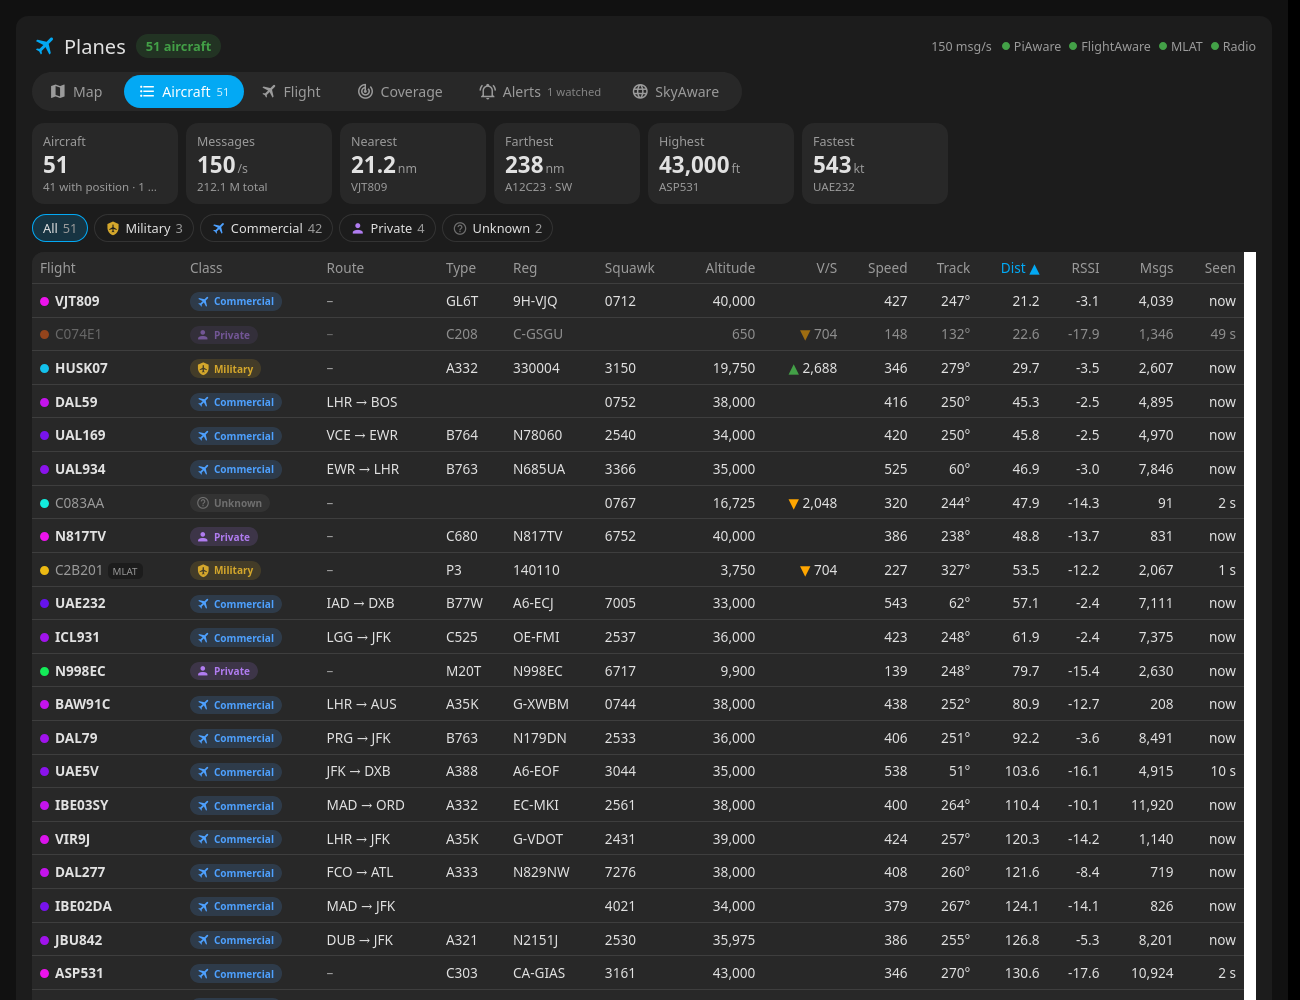
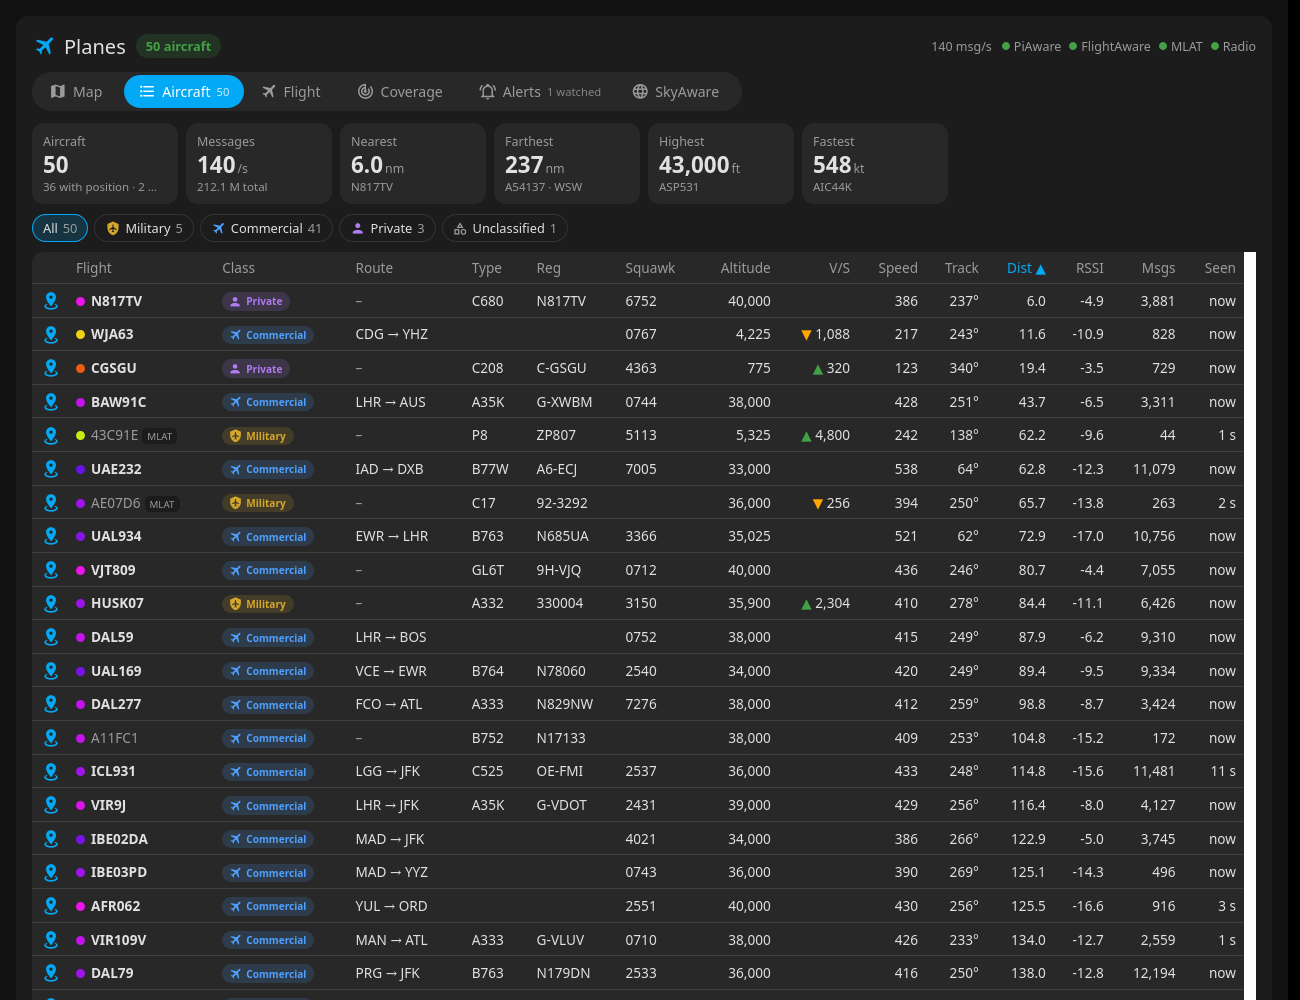
Emergency squawks must be confirmed (ADS-B emergency status, or held 60 s with 20+ messages); README: jump-to-aircraft screenshot
A corrupted Mode S reply decoded as 7500 for a Swiss A330 and sent a hijack alert.

diff --git a/dist/skyaware-card.js b/dist/skyaware-card.js
@@ -28,6 +28,7 @@ const TABS = [["map", "Map", "mdi:map"], ["list", "Aircraft", "mdi:format-list-b
 const BANDS = [["high", "Above 25,000 ft", 35000], ["mid", "10,000–25,000 ft", 15000], ["low", "Below 10,000 ft", 1500]];
 const RANGES = [["1", "Today"], ["7", "7 days"], ["30", "30 days"], ["all", "All time"]];
 const SQUAWKS = { "7500": "Hijack", "7600": "Radio failure", "7700": "Emergency" };
+const SQUAWK_EMERGENCY = { "7500": "unlawful", "7600": "nordo", "7700": "general" }; // matching ADS-B emergency status
 const CATEGORY = {
   A1: "Light (< 7 t)", A2: "Small (7–34 t)", A3: "Large (34–136 t)", A4: "High vortex (B757)", A5: "Heavy (> 136 t)",
   A6: "High performance", A7: "Rotorcraft", B1: "Glider", B2: "Balloon", B4: "Ultralight", B6: "Drone",
@@ -461,6 +462,14 @@ class SkyAwareCard extends HTMLElement {
       while (tr.length && tr[0].t < cutoff) tr.shift();
       if (!tr.length) STORE.trails.delete(hex);
     }
+    // Emergency squawks seen, for _emerg(): when each code was first seen and the message count then.
+    if (!this._sq) this._sq = new Map();
+    for (const ac of d.aircraft) {
+      const code = SQUAWKS[ac.squawk] ? ac.squawk : ac.emergency && ac.emergency !== "none" ? ac.emergency : null;
+      const q = this._sq.get(ac.hex);
+      if (!code) this._sq.delete(ac.hex);
+      else if (!q || q.code !== code) this._sq.set(ac.hex, { code, t: Date.now(), msgs: ac.messages || 0 });
+    }
     this._acs = d.aircraft;
     if (!this._kicked && this._config.lookups) {
       this._kicked = true;
@@ -589,6 +598,16 @@ class SkyAwareCard extends HTMLElement {
 
   _tag(c, short) {
     return `<span class="ctag" style="--c:${c.c}" title="${c.l}"><ha-icon icon="${c.i}"></ha-icon>${short ? "" : c.l}</span>`;
+  }
+
+  // Emergency squawk: {code, name, ok}. ok (confirmed) = the matching ADS-B emergency status, or the code held for
+  // 60 s while 20+ more messages arrived. A single corrupted Mode S reply often decodes as 7500 and dump1090 keeps it.
+  _emerg(a) {
+    const q = this._sq?.get(a.hex);
+    if (!q) return null;
+    const adsb = a.emergency && a.emergency !== "none" && (!SQUAWKS[q.code] || a.emergency === SQUAWK_EMERGENCY[q.code]);
+    const held = Date.now() - q.t >= 60000 && (a.messages || 0) - q.msgs >= 20 && a.seen < 10;
+    return { code: q.code, name: SQUAWKS[q.code] || q.code, ok: !!(adsb || held) };
   }
 
   _info(hex) {
@@ -1033,10 +1052,14 @@ class SkyAwareCard extends HTMLElement {
       st.textContent = `${acs.length} aircraft`;
       st.title = `${withPos} with positions`;
     }
-    const em = acs.filter((a) => SQUAWKS[a.squawk] || (a.emergency && a.emergency !== "none"));
+    const em = acs.map((a) => [a, this._emerg(a)]).filter(([, x]) => x);
     const e = this.$("emerg");
     e.hidden = !em.length;
-    if (em.length) e.textContent = em.map((a) => `${callsign(a) || a.hex} ${SQUAWKS[a.squawk] || a.emergency}`).join(" · ");
+    if (em.length) {
+      e.className = `pill ${em.some(([, x]) => x.ok) ? "bad" : "warn"}`;
+      e.textContent = em.map(([a, x]) => (x.ok ? `${callsign(a) || a.hex} ${x.name}` : `${callsign(a) || a.hex} ${x.code}?`)).join(" · ");
+      e.title = em.some(([, x]) => !x.ok) ? "? = not confirmed yet: no matching ADS-B emergency status, and not held for a minute (often a corrupted Mode S reply)" : "";
+    }
     const s = this._monStatus?.piaware;
     const dots = s && !this._monErr
       ? `<span class="dots">${[["piaware", "PiAware"], ["adept", "FlightAware"], ["mlat", "MLAT"], ["radio", "Radio"]]
@@ -1331,7 +1354,8 @@ class SkyAwareCard extends HTMLElement {
       if (isSel) g += `<circle class="selring" r="${17 * sc}"/>`;
       if (this._flash?.hex === a.hex && Date.now() < this._flash.until)
         g += `<circle r="18" fill="none" stroke="var(--primary-color)" stroke-width="3"><animate attributeName="r" values="14;46" dur="1.1s" repeatCount="indefinite"/><animate attributeName="opacity" values="1;0" dur="1.1s" repeatCount="indefinite"/></circle>`;
-      if (SQUAWKS[a.squawk]) g += `<circle r="${19 * sc}" fill="none" stroke="var(--sa-bad)" stroke-width="2.5"/>`;
+      const emg = this._emerg(a);
+      if (emg) g += `<circle r="${19 * sc}" fill="none" stroke="var(${emg.ok ? "--sa-bad" : "--sa-warn"})" stroke-width="2.5"${emg.ok ? "" : ` stroke-dasharray="4 3"`}/>`;
       g += `<path d="${SHAPES[shape]}" transform="rotate(${rot.toFixed(0)}) scale(${(sc * (isSel ? 1.25 : 1)).toFixed(2)})" fill="${altColor(a.alt_baro, isSel)}" stroke="${mlat ? "#4040ff" : this._dark ? "#000" : "#222"}"/>`;
       if (this._labels || isSel) {
         const cs = callsign(a) || a.hex.toUpperCase();
@@ -1421,7 +1445,7 @@ class SkyAwareCard extends HTMLElement {
         <div><span>V/S</span><b>${vr ? `${vr > 0 ? "▲" : "▼"} ${num(Math.abs(vr))}` : "level"}</b></div>
         <div><span>Distance</span><b>${num(a._dist, 1)} nm</b></div>
         <div><span>Bearing</span><b>${a._brg !== undefined ? `${num(a._brg)}° ${compass(a._brg)}` : "–"}</b></div>
-        <div><span>Squawk</span><b class="${SQUAWKS[a.squawk] ? "bad" : ""}">${esc(a.squawk || "–")}</b></div>
+        <div><span>Squawk</span><b class="${this._emerg(a) ? (this._emerg(a).ok ? "bad" : "warn") : ""}">${esc(a.squawk || "–")}${this._emerg(a) && !this._emerg(a).ok ? "?" : ""}</b></div>
       </div>
       <div class="acts"><button class="btn pri" data-act="details"><ha-icon icon="mdi:information-outline"></ha-icon>Flight details</button>
         <button class="btn ${this._follow ? "on" : ""}" data-act="follow"><ha-icon icon="mdi:crosshairs"></ha-icon>${this._follow ? "Following" : "Follow"}</button>
@@ -1490,7 +1514,7 @@ class SkyAwareCard extends HTMLElement {
     this.$("lbody").innerHTML = rows.map((a) => {
       const info = this._info(a.hex), rt = this._route(a);
       const vr = vrate(a);
-      const em = SQUAWKS[a.squawk];
+      const emg = this._emerg(a), em = emg?.ok ? emg.name : "";
       const cls = [a.hex === this._sel ? "sel" : "", a.seen > 30 ? "stale" : "", em ? "emerg" : ""].join(" ");
       return `<tr data-hex="${esc(a.hex)}" class="${cls}">
         <td class="pin">${a.lat !== undefined ? `<button data-act="locate" data-hex="${esc(a.hex)}" title="Show on the map"><ha-icon icon="mdi:map-marker-radius"></ha-icon></button>` : ""}</td>
@@ -1499,7 +1523,7 @@ class SkyAwareCard extends HTMLElement {
         <td>${rt ? `${esc(rt.o.iata || rt.o.icao)} → ${esc(rt.d.iata || rt.d.icao)}` : `<span class="muted">–</span>`}</td>
         <td>${esc(info?.icao || this._classes?.[a.hex]?.type || "")}</td>
         <td>${esc(info?.reg || this._classes?.[a.hex]?.reg || "")}</td>
-        <td class="${em ? "bad" : ""}">${esc(a.squawk || "")}${em ? ` ${em}` : ""}</td>
+        <td class="${em ? "bad" : emg ? "warn" : ""}">${esc(a.squawk || "")}${em ? ` ${em}` : emg ? "?" : ""}</td>
         <td class="r">${a.alt_baro === "ground" ? "GND" : num(a.alt_baro)}</td>
         <td class="r">${vr ? `<span class="${vr > 0 ? "good" : "warn"}">${vr > 0 ? "▲" : "▼"}</span> ${num(Math.abs(vr))}` : ""}</td>
         <td class="r">${a.gs ? num(a.gs) : ""}</td>
@@ -1531,7 +1555,7 @@ class SkyAwareCard extends HTMLElement {
     const photo = STORE.photos.get(a.hex);
     const vr = vrate(a);
     const lostFor = live ? 0 : Math.max(0, (this._now || 0) - (this._selSeenAt || 0));
-    const sqName = SQUAWKS[a.squawk];
+    const emg = this._emerg(a), sqName = emg?.ok ? emg.name : "";
 
     // Phase of flight.
     let phase = "";
@@ -1552,7 +1576,7 @@ class SkyAwareCard extends HTMLElement {
         : `<div class="photo" style="display:flex;align-items:center;justify-content:center;color:var(--secondary-text-color)"><ha-icon icon="mdi:airplane" style="--mdc-icon-size:48px;opacity:.4"></ha-icon></div>`}</div>
       <div class="fid">
         <div class="cs">${esc(cs || a.hex.toUpperCase())}${iataFlight && iataFlight !== cs ? `<span class="pill dim">${esc(iataFlight)}</span>` : ""}${this._tag(this._class(a))}
-          ${phase ? `<span class="pill ok">${phase}</span>` : ""}${!live ? `<span class="pill warn">Signal lost</span>` : ""}${sqName ? `<span class="pill bad">${sqName} · ${a.squawk}</span>` : ""}</div>
+          ${phase ? `<span class="pill ok">${phase}</span>` : ""}${!live ? `<span class="pill warn">Signal lost</span>` : ""}${sqName ? `<span class="pill bad">${sqName} · ${a.squawk}</span>` : emg ? `<span class="pill warn" title="Not confirmed yet: often a corrupted Mode S reply">${esc(emg.code)} unconfirmed</span>` : ""}</div>
         <div class="al">${logo ? `<img src="https://www.flightaware.com/images/airline_logos/90p/${esc(logo)}.png" alt="" onerror="this.remove()">` : ""}${esc(airlineName || info?.owner || (cs ? "" : "No callsign"))}</div>
         <div class="ty">${[info?.mfr && info?.type ? `${info.mfr} ${info.type}` : info?.type, info?.icao && `(${info.icao})`].filter(Boolean).map(esc).join(" ")}
           ${info?.reg ? ` · <b>${esc(info.reg)}</b>` : ""}${info?.owner && airlineName && info.owner !== airlineName ? ` · ${esc(info.owner)}` : ""}</div>

diff --git a/server.js b/server.js
@@ -40,6 +40,8 @@ const RAD = Math.PI / 180;
 const BUCKETS = 72; // 5° each
 const BANDS = [['low', -1e9, 10000], ['mid', 10000, 25000], ['high', 25000, 1e9]];
 const SQUAWKS = { '7500': 'Hijack', '7600': 'Radio failure', '7700': 'Emergency' };
+// ADS-B emergency status that goes with each squawk (dump1090-fa's `emergency` field).
+const SQUAWK_EMERGENCY = { '7500': 'unlawful', '7600': 'nordo', '7700': 'general' };
 // Military ICAO address blocks (as in readsb) and callsign prefixes, on top of the database's military flag.
 const MIL_RANGES = [[0xadf7c8, 0xafffff], [0xc20000, 0xc3ffff], [0x43c000, 0x43cfff], [0x3aa000, 0x3affff], [0x3b7000, 0x3bffff], [0x3ea000, 0x3ebfff], [0x3f4000, 0x3fbfff]];
 const MIL_CALLSIGN = /^(CFC|RCH|CNV|RRR|ASY|NATO|PAT|SAM|SPAR|GAF|CTM|BAF|IAM|HKY|KIWI|TUAF|VENUS|NAVY|ARMY|EVAC|REACH|TOPCT)\d/;
@@ -327,7 +329,7 @@ function saveCoverage() {
 
 let alerts = readJson(ALERTS_FILE, []); // newest last, last 200
 const watchState = new Map(); // callsign -> {approach, last:{t, alt, d}}
-const squawkSeen = new Map(); // hex -> {code, n}
+const squawkSeen = new Map(); // hex -> {code, t, msgs} when the code was first seen
 
 function recentlyAlerted(kind, hex, hours) {
   const since = Date.now() - hours * 3600_000;
@@ -412,13 +414,16 @@ async function checkAlerts(d) {
     const pos = a.lat !== undefined && a.seen_pos < 30 && rx;
     const dd = pos ? dist(rx.lat, rx.lon, a.lat, a.lon) : null;
 
-    // Emergency squawks: seen on two polls in a row (a garbled squawk is usually one-off).
+    // Emergency squawks. dump1090 keeps the last squawk it decoded, so a single corrupted Mode S reply can sit there
+    // as "7500" for minutes. Confirmed means: the matching ADS-B emergency status, or the same code held for 60 s
+    // while 20+ more messages arrived (a real squawk keeps being repeated; a glitch gets overwritten).
     const code = SQUAWKS[a.squawk] ? a.squawk : a.emergency && a.emergency !== 'none' ? a.emergency : null;
     if (code) {
-      const q = squawkSeen.get(a.hex);
-      const n = q && q.code === code ? q.n + 1 : 1;
-      squawkSeen.set(a.hex, { code, n });
-      if (s.squawk && n === 2 && !recentlyAlerted('squawk', a.hex, 2)) {
+      let q = squawkSeen.get(a.hex);
+      if (!q || q.code !== code) squawkSeen.set(a.hex, (q = { code, t: Date.now(), msgs: a.messages || 0 }));
+      const adsb = a.emergency && a.emergency !== 'none' && (!SQUAWKS[code] || a.emergency === SQUAWK_EMERGENCY[code]);
+      const held = Date.now() - q.t >= 60_000 && (a.messages || 0) - q.msgs >= 20 && a.seen < 10;
+      if (s.squawk && (adsb || held) && !recentlyAlerted('squawk', a.hex, 2)) {
         const cs = callsign(a);
         const [info, route, image] = await Promise.all([describe(a), routeOf(a), photoOf(a.hex)]);
         const what = SQUAWKS[a.squawk] ? `Squawk ${a.squawk} · ${SQUAWKS[a.squawk]}` : `Emergency: ${code}`;

diff --git a/README.md b/README.md
@@ -20,9 +20,13 @@ Two pieces that work together:
 
 ![Map tab: live aircraft with range rings, altitude-coloured trails and a selected flight](docs/map.png)
 
-| Map filter | Flight status | Light theme |
-|---|---|---|
-| ![Map filter: chosen classes and airlines only, with counts and logos](docs/map-filter.png) | ![Flight tab: route, progress, estimated arrival and live data](docs/flight.png) | ![Map tab in Home Assistant's light theme](docs/map-light.png) |
+| Map filter | Jump to aircraft (from the list's 📍) |
+|---|---|
+| ![Map filter: chosen classes and airlines only, with counts and logos](docs/map-filter.png) | ![The map centred and zoomed on an aircraft picked from the Aircraft list](docs/locate.png) |
+
+| Flight status | Light theme |
+|---|---|
+| ![Flight tab: route, progress, estimated arrival and live data](docs/flight.png) | ![Map tab in Home Assistant's light theme](docs/map-light.png) |
 
 | Coverage | Aircraft | Alerts |
 |---|---|---|
@@ -56,12 +60,15 @@ Two pieces that work together:
   today / 7 days / 30 days / all time, with records and per-day charts.
 - **Alerts**: everything below, as switches, plus a test button and the alert log.
 - **SkyAware**: your original SkyAware page, embedded.
-- Emergency squawks (7500 / 7600 / 7700) show as a red pill in the header and a red ring on the map.
+- Emergency squawks (7500 / 7600 / 7700) show as a red pill in the header and a red ring on the map once confirmed;
+  amber with a "?" until then.
 
 ### The monitor
 - **Phone alerts** (as sticky notifications through Home Assistant):
-  - **Emergency squawks**: 7700, 7600 or 7500, or an ADS-B emergency status, at any distance. It must be seen on two
-    polls in a row, since a single garbled squawk is common.
+  - **Emergency squawks**: 7700, 7600 or 7500, or an ADS-B emergency status, at any distance. A squawk must be
+    confirmed: either by the matching ADS-B emergency status, or by holding for 60 s while 20+ more messages arrive.
+    A single corrupted Mode S reply often decodes as 7500, and dump1090 keeps showing it until a clean one replaces
+    it. The card shows unconfirmed ones in amber with a "?" instead of red.
   - **Military aircraft nearby**: uses the military flag in
     [wiedehopf/tar1090-db](https://github.com/wiedehopf/tar1090-db) (downloaded weekly), plus known military ICAO
     address blocks and callsign prefixes.
